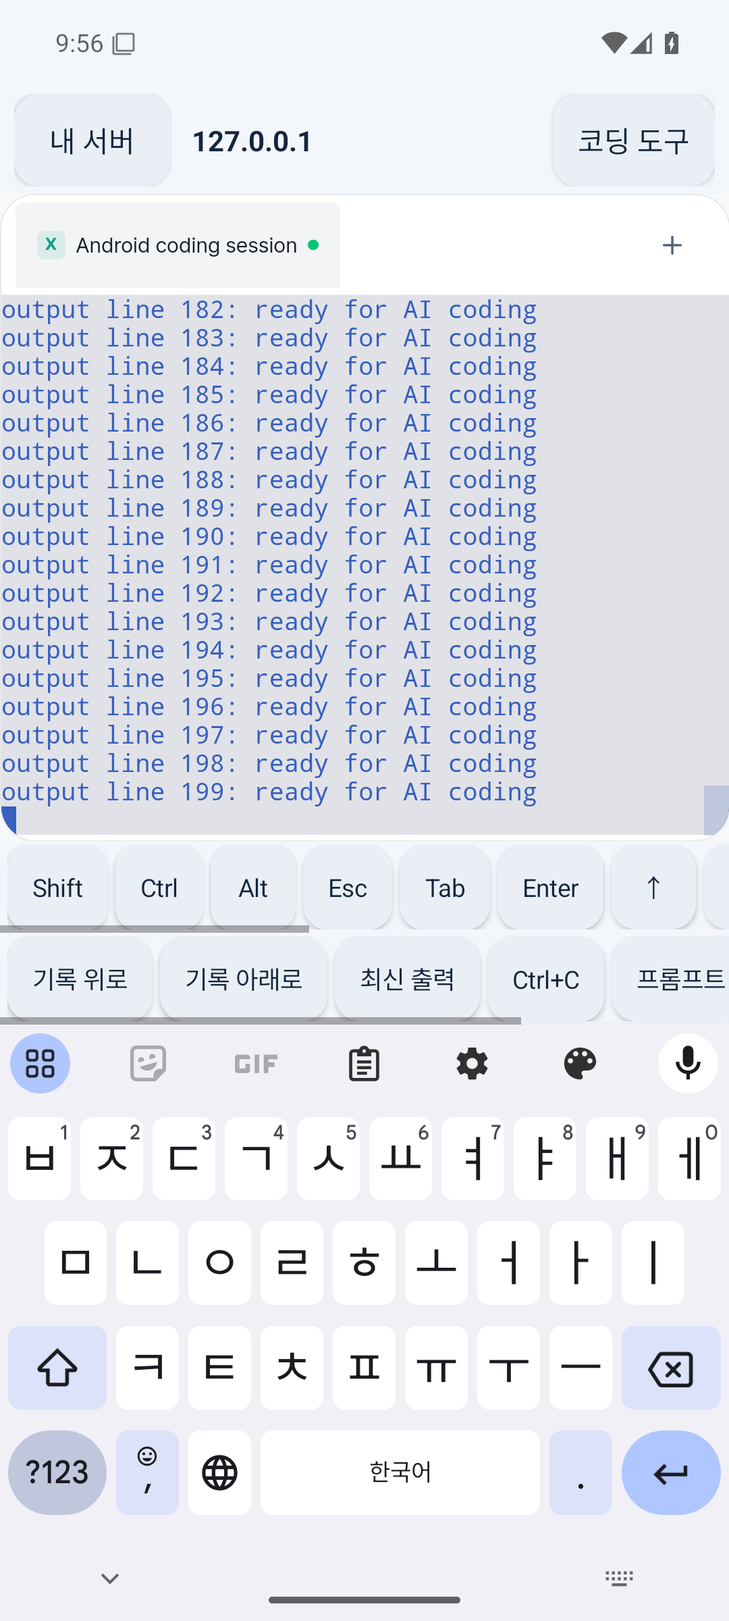
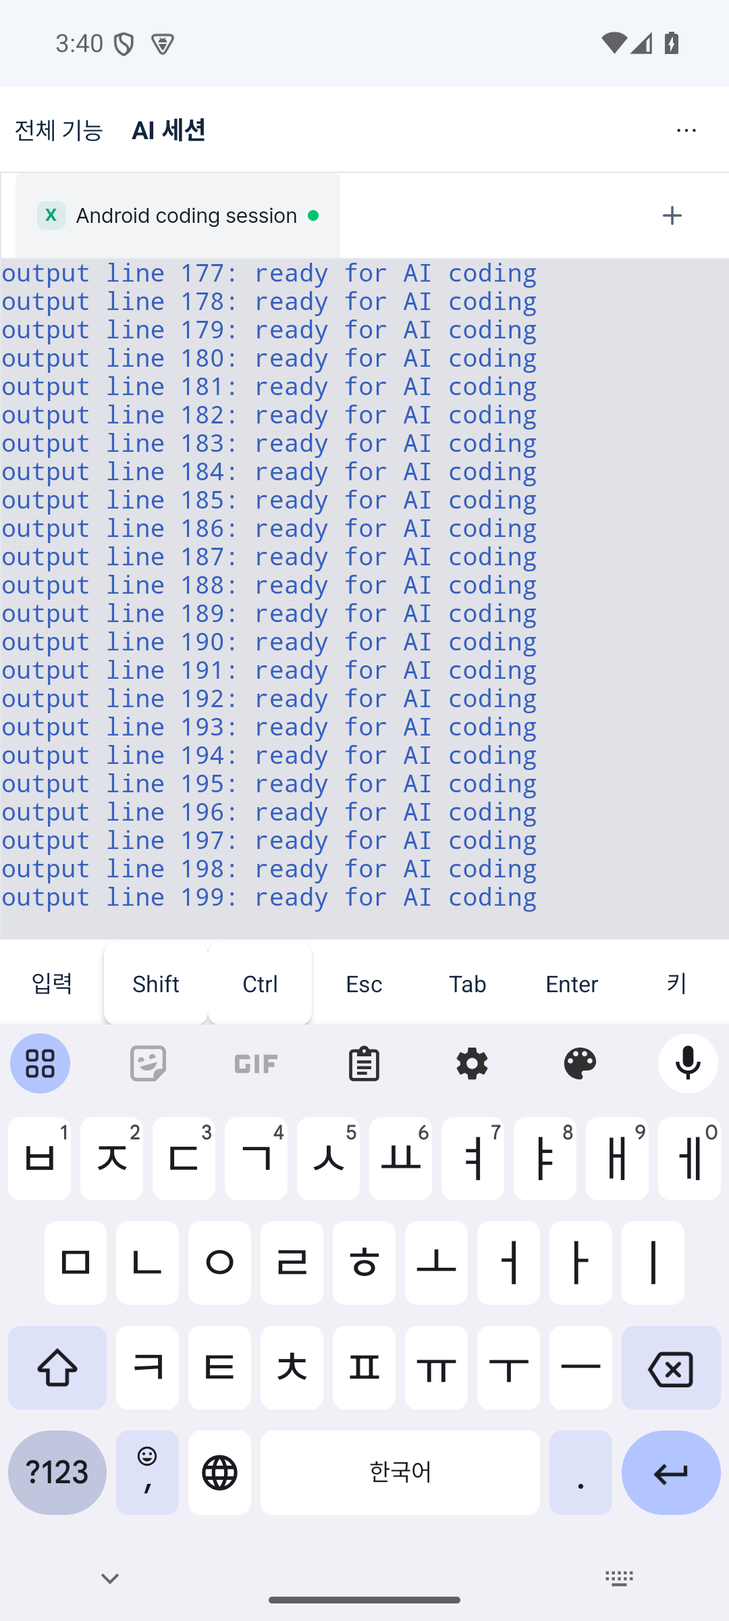
feat(android): expose full navigation and compact coding workspace

diff --git a/android/app/src/main/assets/panel.js b/android/app/src/main/assets/panel.js
@@ -6,7 +6,7 @@
   style.textContent = `
     html[data-sfpanel-android] { --muted-foreground:#526278; --primary:#1264cc; }
     html.dark[data-sfpanel-android] { --muted-foreground:#b0bdcb; --primary:#75b5ff; --primary-foreground:#101923; }
-    [data-sfpanel-android] :is(button,[role=button],[role=tab],input:not([type=checkbox]):not([type=radio]),select) { min-height:48px; }
+    [data-sfpanel-android] :is(button,[role=button],[role=tab],[role=menuitem],[role=menuitemcheckbox],[role=menuitemradio],[role=option],input:not([type=checkbox]):not([type=radio]),select) { min-height:48px; }
     [data-sfpanel-android] :is(button,[role=button],[role=tab]) { min-width:48px; }
     [data-sfpanel-android] :is(input,textarea,select) { font-size:max(16px,1em); }
     [data-sfpanel-android] .xterm-helper-textarea { min-height:0 !important; font-size:inherit; }
@@ -14,9 +14,10 @@
     [data-sfpanel-android] nav span { font-size:12px; }
     /* Prevent keyboard focus from scrolling the session frame itself. */
     [data-sfpanel-android] [data-ai-workspace] > .overflow-hidden { overflow:clip; }
-    @media(max-height:520px) {
-      [data-sfpanel-android] [data-ai-workspace] > :first-child { display:none; }
-    }
+    [data-sfpanel-android] [data-ai-workspace] { gap:0 !important; }
+    [data-sfpanel-android]:not([data-ai-tools-open]) [data-ai-workspace] > :first-child { display:none; }
+    [data-sfpanel-android] [data-ai-workspace] > .rounded-2xl { border-radius:0; }
+    [data-sfpanel-android] [data-ai-workspace] [role=tablist] { padding-block:0; }
     @media(prefers-reduced-motion:reduce) { *,*::before,*::after { animation-duration:.01ms !important; transition-duration:.01ms !important; scroll-behavior:auto !important; } }
   `;
   document.head.append(style);

diff --git a/e2e/tests/mobile-terminal.spec.ts b/e2e/tests/mobile-terminal.spec.ts
@@ -1,4 +1,5 @@
 import { test, expect } from '@playwright/test'
+import { resolve } from 'node:path'
 
 // These tests never contact a host shell: REST and WebSocket are both fixtures.
 // Run against a frontend dev server or a built panel; no admin seed is needed.
@@ -78,6 +79,17 @@ for (const path of ['/terminal', '/ai']) {
     for (const button of await bar.getByRole('button').all()) {
       const box = await button.boundingBox()
       expect(box?.height).toBeGreaterThanOrEqual(48)
+    }
+    if (path === '/ai') {
+      await page.addScriptTag({ path: resolve(__dirname, '../../android/app/src/main/assets/panel.js') })
+      const overview = page.locator('[data-ai-workspace] > :first-child')
+      await expect(overview).toBeHidden()
+      await expect(bar).toBeHidden()
+      await expect.poll(async () => (await terminal.boundingBox())?.height ?? 0).toBeGreaterThan(450)
+      // Compact mode must retain account/tool controls on demand.
+      await page.evaluate(() => document.documentElement.setAttribute('data-ai-tools-open', ''))
+      await expect(overview).toBeVisible()
+      await expect(page.getByRole('combobox', { name: 'Run as' })).toBeVisible()
     }
   })
 }

diff --git a/android/app/src/main/java/com/sfpanel/android/MainActivity.java b/android/app/src/main/java/com/sfpanel/android/MainActivity.java
@@ -64,7 +64,7 @@ public final class MainActivity extends Activity {
     private ServerStore.Server current;
     private boolean connecting, pageFailed;
     private int generation;
-    private String startPath = "/ai";
+    private String startPath = "/dashboard";
     private boolean awaitingLogin;
     private ValueCallback<Uri[]> fileCallback;
     private PanelDownloads downloads;
@@ -73,7 +73,8 @@ public final class MainActivity extends Activity {
     CertificateTrust certificateTrust() { return certificates; }
     private LinearLayout terminalBar;
     private boolean shift, ctrl, alt;
-    private Button shiftButton, ctrlButton, altButton;
+    private Button shiftButton, ctrlButton, altButton, moreKeysButton;
+    private TextView panelTitle;
 
     @Override public void onCreate(Bundle state) {
         super.onCreate(state);
@@ -142,10 +143,8 @@ public final class MainActivity extends Activity {
         ScrollView scroll = new ScrollView(this); scroll.setFillViewport(true);
         LinearLayout body = column(); body.setPadding(dp(24), dp(20), dp(24), dp(32));
         scroll.addView(body); root.addView(scroll, new LinearLayout.LayoutParams(-1, -1));
-        body.addView(text("SFPanel", 21, TEAL, true));
-        body.addView(text(getString(R.string.home_eyebrow), 12, MUTED, true));
-        body.addView(heading(R.string.home_title, 32));
-        body.addView(text(getString(R.string.home_description), 16, MUTED, false));
+        body.addView(text("SFPanel", 24, INK, true));
+        body.addView(text(getString(R.string.home_description), 14, MUTED, false));
 
         LinearLayout card = column(); card.setPadding(dp(20), dp(16), dp(20), dp(22)); card.setBackground(surface(Color.WHITE, 24));
         LinearLayout.LayoutParams cardParams = new LinearLayout.LayoutParams(-1, -2); cardParams.topMargin = dp(24);
@@ -162,12 +161,13 @@ public final class MainActivity extends Activity {
         });
         card.addView(connectButton);
         status = text("", 15, MUTED, false); status.setAccessibilityLiveRegion(View.ACCESSIBILITY_LIVE_REGION_POLITE); card.addView(status);
-        body.addView(heading(R.string.saved_servers, 22));
-        body.addView(text(getString(R.string.saved_help), 14, MUTED, false));
-        if (store.list().isEmpty()) body.addView(text(getString(R.string.empty_servers), 16, MUTED, false));
+        LinearLayout savedSection = column(); body.addView(savedSection, 2);
+        savedSection.addView(heading(R.string.saved_servers, 22));
+        savedSection.addView(text(getString(R.string.saved_help), 14, MUTED, false));
+        if (store.list().isEmpty()) savedSection.addView(text(getString(R.string.empty_servers), 16, MUTED, false));
         for (ServerStore.Server server : store.list()) {
             LinearLayout saved = column(); saved.setPadding(dp(16), dp(12), dp(16), dp(16)); saved.setBackground(surface(Color.WHITE, 18));
-            LinearLayout.LayoutParams sp = new LinearLayout.LayoutParams(-1, -2); sp.topMargin = dp(12); body.addView(saved, sp);
+            LinearLayout.LayoutParams sp = new LinearLayout.LayoutParams(-1, -2); sp.topMargin = dp(12); savedSection.addView(saved, sp);
             Button open = button(server.name() + "\n" + server.address(), false, () -> requestConnect(server));
             open.setContentDescription(getString(R.string.open_server, server.name()) + ", " + server.address()); saved.addView(open);
             Button remove = button(getString(R.string.remove), false, () -> new AlertDialog.Builder(this)
@@ -178,6 +178,12 @@ public final class MainActivity extends Activity {
                         .setNegativeButton(R.string.cancel, null).setPositiveButton(R.string.remove, (d, w) -> { certificates.remove(server.address()); showHome(); }).show()));
             remove.setContentDescription(getString(R.string.remove_server, server.name())); saved.addView(remove);
         }
+        if (!store.list().isEmpty()) {
+            card.setVisibility(View.GONE);
+            Button addServer = compactButton(getString(R.string.add_server), () -> card.setVisibility(card.getVisibility() == View.VISIBLE ? View.GONE : View.VISIBLE));
+            body.addView(addServer, body.indexOfChild(card));
+        }
+        card.removeView(status); body.addView(status, body.indexOfChild(card));
         body.addView(button(getString(R.string.options), false, this::showOptions));
         body.addView(text(getString(R.string.privacy_help), 14, MUTED, false));
     }
@@ -240,13 +246,12 @@ public final class MainActivity extends Activity {
     @SuppressLint("SetJavaScriptEnabled")
     private void openPanel(ServerStore.Server server) {
         closeWeb(); current = server; setRoot();
-        LinearLayout toolbar = new LinearLayout(this); toolbar.setGravity(Gravity.CENTER_VERTICAL); toolbar.setPadding(dp(8), dp(4), dp(8), dp(4));
-        Button home = button(getString(R.string.servers), false, this::confirmHome);
-        toolbar.addView(home, new LinearLayout.LayoutParams(-2, -2));
-        TextView title = text(server.name(), 16, INK, true); title.setMaxLines(1); title.setEllipsize(android.text.TextUtils.TruncateAt.END);
-        title.setPadding(dp(12), 0, dp(8), 0); toolbar.addView(title, new LinearLayout.LayoutParams(0, -2, 1));
-        toolbar.addView(button(getString(R.string.coding_tools), false, this::showTools), new LinearLayout.LayoutParams(-2, -2));
-        root.addView(toolbar);
+        LinearLayout toolbar = new LinearLayout(this); toolbar.setGravity(Gravity.CENTER_VERTICAL); toolbar.setBackgroundColor(Color.WHITE);
+        toolbar.addView(compactButton(getString(R.string.all_features), this::showNavigation), new LinearLayout.LayoutParams(-2, dp(48)));
+        panelTitle = text(server.name(), 14, INK, true); panelTitle.setMaxLines(1); panelTitle.setEllipsize(android.text.TextUtils.TruncateAt.END);
+        panelTitle.setPadding(dp(8), 0, dp(8), 0); toolbar.addView(panelTitle, new LinearLayout.LayoutParams(0, dp(48), 1)); panelTitle.setGravity(Gravity.CENTER_VERTICAL);
+        Button tools = compactButton("⋯", this::showTools); tools.setContentDescription(getString(R.string.page_tools));
+        toolbar.addView(tools, new LinearLayout.LayoutParams(dp(48), dp(48))); root.addView(toolbar);
         progress = new ProgressBar(this, null, android.R.attr.progressBarStyleHorizontal); progress.setMax(100); root.addView(progress, new LinearLayout.LayoutParams(-1, dp(3)));
         status = text(getString(R.string.page_loading), 14, MUTED, false); status.setPadding(dp(16), dp(4), dp(16), dp(4));
         status.setAccessibilityLiveRegion(View.ACCESSIBILITY_LIVE_REGION_POLITE); root.addView(status);
@@ -324,52 +329,99 @@ public final class MainActivity extends Activity {
         web.loadUrl(server.address() + startPath);
     }
 
-    private LinearLayout keyRow() {
-        android.widget.HorizontalScrollView scroll = new android.widget.HorizontalScrollView(this);
-        scroll.setHorizontalScrollBarEnabled(true);
-        scroll.setScrollbarFadingEnabled(false);
-        LinearLayout row = new LinearLayout(this); row.setPadding(dp(4), dp(2), dp(4), dp(2));
-        scroll.addView(row); terminalBar.addView(scroll); return row;
-    }
-    private Button key(LinearLayout row, String label, Runnable action) {
-        Button b = button(label, false, action); b.setTextSize(14 * readingScale()); b.setMinWidth(dp(48)); b.setMinimumWidth(dp(48));
-        b.setMinHeight(dp(48)); b.setMinimumHeight(dp(48));
-        LinearLayout.LayoutParams p = new LinearLayout.LayoutParams(-2, -2); p.setMarginEnd(dp(4));
-        row.addView(b, p); return b;
+    private Button compactButton(String label, Runnable action) {
+        Button b = button(label, false, action); b.setTextSize(13 * readingScale());
+        b.setPadding(dp(8), 0, dp(8), 0); b.setMinHeight(dp(48)); b.setMinimumHeight(dp(48));
+        b.setMinWidth(dp(48)); b.setMinimumWidth(dp(48)); b.setBackgroundColor(Color.TRANSPARENT); b.setStateListAnimator(null); b.setElevation(0);
+        b.setLayoutParams(new LinearLayout.LayoutParams(-2, dp(48))); return b;
     }
     private void addTerminalBar() {
-        terminalBar = column(); terminalBar.setVisibility(View.GONE); root.addView(terminalBar);
-        LinearLayout row = keyRow();
-        shiftButton = key(row, "Shift", () -> { shift = !shift; updateModifiers(); });
-        ctrlButton = key(row, "Ctrl", () -> { ctrl = !ctrl; updateModifiers(); });
-        altButton = key(row, "Alt", () -> { alt = !alt; updateModifiers(); });
-        String[][] keys = {{"Esc", "\u001b"}, {"Tab", "\t"}, {"Enter", "\r"}, {"↑", "\u001b[A"}, {"↓", "\u001b[B"},
-                {"←", "\u001b[D"}, {"→", "\u001b[C"}, {"PgUp", "\u001b[5~"}, {"PgDn", "\u001b[6~"}, {"Home", "\u001b[H"}, {"End", "\u001b[F"}, {"c", "c"}, {"d", "d"}, {"z", "z"}};
-        for (String[] k : keys) {
-            Button b = key(row, k[0], () -> sendKey(k[1]));
-            int label = switch (k[0]) { case "↑" -> R.string.key_up; case "↓" -> R.string.key_down; case "←" -> R.string.key_left; case "→" -> R.string.key_right; default -> 0; };
-            if (label != 0) b.setContentDescription(getString(label));
+        terminalBar = column(); terminalBar.setBackgroundColor(Color.WHITE); terminalBar.setVisibility(View.GONE); root.addView(terminalBar);
+        LinearLayout row = new LinearLayout(this); terminalBar.addView(row);
+        row.addView(compactButton(getString(R.string.input_short), () -> compose("")));
+        shiftButton = compactButton("Shift", () -> { shift = !shift; updateModifiers(); }); row.addView(shiftButton);
+        ctrlButton = compactButton("Ctrl", () -> { ctrl = !ctrl; updateModifiers(); }); row.addView(ctrlButton);
+        row.addView(compactButton("Esc", () -> sendKey("\u001b")));
+        row.addView(compactButton("Tab", () -> sendKey("\t")));
+        row.addView(compactButton("Enter", () -> sendKey("\r")));
+        moreKeysButton = compactButton(getString(R.string.keys_short), this::showKeypad);
+        moreKeysButton.setContentDescription(getString(R.string.keys_more)); row.addView(moreKeysButton);
+        for (int i = 0; i < row.getChildCount(); i++) row.getChildAt(i).setLayoutParams(new LinearLayout.LayoutParams(0, dp(48), 1));
+    }
+    private void showKeypad() {
+        LinearLayout body = column(); body.setPadding(dp(12), dp(8), dp(12), dp(8));
+        AlertDialog dialog = new AlertDialog.Builder(this).setTitle(R.string.terminal_controls).setView(body).setNegativeButton(R.string.close, null).create();
+        String[][] labels = {{"Alt", "↑", "PgUp", "Home"}, {"←", "↓", "→", "End"}, {"Ctrl+C", "Ctrl+D", "Ctrl+Z", "PgDn"}};
+        String[][] codes = {{"", "\u001b[A", "\u001b[5~", "\u001b[H"}, {"\u001b[D", "\u001b[B", "\u001b[C", "\u001b[F"}, {"\u0003", "\u0004", "\u001a", "\u001b[6~"}};
+        for (int i = 0; i < labels.length; i++) {
+            LinearLayout row = new LinearLayout(this); body.addView(row);
+            for (int j = 0; j < labels[i].length; j++) {
+                String label = labels[i][j], code = codes[i][j];
+                Button key = compactButton(label, () -> { if (label.equals("Alt")) { alt = !alt; updateModifiers(); dialog.dismiss(); } else { if (label.startsWith("Ctrl+")) { shift = false; ctrl = false; alt = false; } sendKey(code); } });
+                int description = switch (label) { case "↑" -> R.string.key_up; case "↓" -> R.string.key_down; case "←" -> R.string.key_left; case "→" -> R.string.key_right; default -> 0; };
+                if (description != 0) key.setContentDescription(getString(description));
+                row.addView(key, new LinearLayout.LayoutParams(0, dp(48), 1));
+            }
         }
-        LinearLayout history = keyRow();
-        key(history, getString(R.string.scroll_up), () -> scroll(-1));
-        key(history, getString(R.string.scroll_down), () -> scroll(1));
-        key(history, getString(R.string.scroll_bottom), () -> scroll(0));
-        key(history, "Ctrl+C", () -> { shift = false; ctrl = false; alt = false; sendKey("\u0003"); });
-        key(history, getString(R.string.compose_prompt), () -> compose(""));
-        key(history, getString(R.string.read_output), this::readOutput);
+        LinearLayout history = new LinearLayout(this); body.addView(history);
+        history.addView(compactButton(getString(R.string.scroll_up), () -> scroll(-1)), new LinearLayout.LayoutParams(0, dp(48), 1));
+        history.addView(compactButton(getString(R.string.scroll_down), () -> scroll(1)), new LinearLayout.LayoutParams(0, dp(48), 1));
+        history.addView(compactButton(getString(R.string.scroll_bottom), () -> scroll(0)), new LinearLayout.LayoutParams(0, dp(48), 1));
+        body.addView(compactButton(getString(R.string.read_output), () -> { dialog.dismiss(); readOutput(); }));
+        body.addView(compactButton(getString(R.string.search_output), () -> { dialog.dismiss(); searchOutput(); }));
+        dialog.show();
+    }
+    private void showNavigation() {
+        String[] paths = {"/dashboard", "/ai", "/terminal", "/files", "/docker", "/appstore", "/services", "/processes", "/cron", "/logs", "/network", "/firewall", "/disk", "/packages", "/cluster", "/settings"};
+        String[] names = getResources().getStringArray(R.array.feature_names);
+        LinearLayout body = column(); body.setPadding(dp(16), dp(8), dp(16), dp(16));
+        TextView server = text(current.name() + " · " + current.address(), 13, MUTED, false); body.addView(server);
+        EditText search = new EditText(this); search.setSingleLine(true); search.setHint(R.string.find_feature); search.setContentDescription(getString(R.string.find_feature)); search.setMinHeight(dp(48)); body.addView(search);
+        ScrollView scroll = new ScrollView(this); LinearLayout entries = column(); scroll.addView(entries); body.addView(scroll, new LinearLayout.LayoutParams(-1, 0, 1));
+        AlertDialog dialog = new AlertDialog.Builder(this).setTitle(R.string.all_features).setView(body).setNegativeButton(R.string.close, null).create();
+        java.util.List<Button> buttons = new java.util.ArrayList<>();
+        LinearLayout row = null;
+        for (int i = 0; i < paths.length; i++) {
+            if (i % 2 == 0) { row = new LinearLayout(this); entries.addView(row); }
+            String path = paths[i]; Button item = compactButton(names[i], () -> { dialog.dismiss(); navigate(path); });
+            item.setGravity(Gravity.START | Gravity.CENTER_VERTICAL); item.setMaxLines(2);
+            String pagePath = web == null || web.getUrl() == null ? null : Uri.parse(web.getUrl()).getPath();
+            boolean selected = path.equals(pagePath) || (pagePath != null && pagePath.startsWith(path + "/"));
+            item.setBackground(surface(selected ? TEAL : BG, 10)); item.setTextColor(selected ? Color.WHITE : INK);
+            LinearLayout.LayoutParams cell = new LinearLayout.LayoutParams(0, dp(52), 1); cell.setMargins(dp(2), dp(2), dp(2), dp(2));
+            row.addView(item, cell); buttons.add(item);
+        }
+        search.addTextChangedListener(new android.text.TextWatcher() {
+            public void beforeTextChanged(CharSequence s, int start, int count, int after) { }
+            public void onTextChanged(CharSequence s, int start, int before, int count) {
+                String query = s.toString().toLowerCase(java.util.Locale.ROOT);
+                for (int i = 0; i < buttons.size(); i++) buttons.get(i).setVisibility((names[i] + " " + paths[i]).toLowerCase(java.util.Locale.ROOT).contains(query) ? View.VISIBLE : View.GONE);
+            }
+            public void afterTextChanged(android.text.Editable s) { }
+        });
+        body.addView(compactButton(getString(R.string.servers), () -> { dialog.dismiss(); confirmHome(); }));
+        body.addView(compactButton(getString(R.string.options), () -> { dialog.dismiss(); showOptions(); }));
+        if (web != null) ((InputMethodManager) getSystemService(INPUT_METHOD_SERVICE)).hideSoftInputFromWindow(web.getWindowToken(), 0);
+        dialog.setOnShowListener(d -> {
+            dialog.getWindow().setLayout(-1, (int) (getResources().getDisplayMetrics().heightPixels * .9));
+            dialog.getWindow().setSoftInputMode(android.view.WindowManager.LayoutParams.SOFT_INPUT_STATE_ALWAYS_HIDDEN | android.view.WindowManager.LayoutParams.SOFT_INPUT_ADJUST_RESIZE);
+        });
+        dialog.show();
     }
     private void updateTerminalBar(String url) {
         if (terminalBar == null) return;
         String path = Uri.parse(url).getPath();
+        if (panelTitle != null && current != null) panelTitle.setText(current.name() + ("/ai".equals(path) ? " · AI" : "/terminal".equals(path) ? " · " + getString(R.string.terminal) : ""));
         terminalBar.setVisibility("/ai".equals(path) || "/terminal".equals(path) ? View.VISIBLE : View.GONE);
         shift = false; ctrl = false; alt = false; updateModifiers();
     }
     private void updateModifiers() {
+        if (moreKeysButton != null) moreKeysButton.setText(alt ? "Alt" : getString(R.string.keys_short));
         Button[] buttons = {shiftButton, ctrlButton, altButton}; boolean[] values = {shift, ctrl, alt};
         for (int i = 0; i < buttons.length; i++) {
             if (buttons[i] == null) continue;
             buttons[i].setSelected(values[i]); buttons[i].setTextColor(values[i] ? Color.WHITE : INK);
-            buttons[i].setBackground(surface(values[i] ? TEAL : 0xffe9eff5, 12));
+            buttons[i].setBackground(surface(values[i] ? TEAL : Color.WHITE, 8));
             if (android.os.Build.VERSION.SDK_INT >= 30) buttons[i].setStateDescription(getString(values[i] ? R.string.modifier_on : R.string.modifier_off));
         }
     }
@@ -416,28 +468,34 @@ public final class MainActivity extends Activity {
     private static final String ACTIVE = "const e=document.querySelector('[data-terminal-session=active]');const t=e?.__termRef?.current;const w=e?.__wsRef?.current;";
 
     private void showTools() {
-        int[] labels = {R.string.ai_sessions, R.string.terminal, R.string.dashboard, R.string.compose_prompt,
-                R.string.paste_prompt, R.string.read_output, R.string.search_output, R.string.show_keyboard, R.string.options, R.string.reload};
-        String[] names = java.util.Arrays.stream(labels).mapToObj(this::getString).toArray(String[]::new);
+        String path = web == null || web.getUrl() == null ? "" : Uri.parse(web.getUrl()).getPath();
+        if (!"/ai".equals(path) && !"/terminal".equals(path)) {
+            new AlertDialog.Builder(this).setTitle(R.string.page_tools)
+                    .setItems(new String[]{getString(R.string.options), getString(R.string.reload)}, (d, which) -> { if (which == 0) showOptions(); else if (web != null) web.reload(); }).show();
+            return;
+        }
+        boolean ai = "/ai".equals(path);
+        int[] labels = {R.string.ai_setup, R.string.session_actions, R.string.show_keyboard, R.string.paste_prompt,
+                R.string.read_output, R.string.search_output, R.string.terminal_controls, R.string.options, R.string.reload};
+        String[] names = java.util.Arrays.stream(labels).skip(ai ? 0 : 2).mapToObj(this::getString).toArray(String[]::new);
         new AlertDialog.Builder(this).setTitle(R.string.coding_tools).setItems(names, (d, which) -> {
-            switch (which) {
-                case 0 -> navigate("/ai");
-                case 1 -> navigate("/terminal");
-                case 2 -> navigate("/dashboard");
-                case 3 -> compose("");
-                case 4 -> {
+            switch (which + (ai ? 0 : 2)) {
+                case 0 -> evaluate("document.documentElement.toggleAttribute('data-ai-tools-open');window.dispatchEvent(new Event('resize'));return true;", null);
+                case 1 -> evaluate("const tab=document.querySelector('[role=tab][aria-selected=true]');if(!tab)return false;const r=tab.getBoundingClientRect();tab.dispatchEvent(new MouseEvent('contextmenu',{bubbles:true,clientX:r.x+r.width/2,clientY:r.bottom}));return true;", result -> { if (!"true".equals(result)) toast(R.string.no_session); });
+                case 2 -> evaluate(ACTIVE + "if(!t)return false;t.focus();return true;", result -> {
+                    if (!"true".equals(result)) toast(R.string.no_session);
+                    else if (web != null) { web.requestFocus(); ((InputMethodManager) getSystemService(INPUT_METHOD_SERVICE)).showSoftInput(web, InputMethodManager.SHOW_IMPLICIT); }
+                });
+                case 3 -> {
                     ClipboardManager clipboard = (ClipboardManager) getSystemService(CLIPBOARD_SERVICE);
                     ClipData clip = clipboard.getPrimaryClip();
                     compose(clip != null && clip.getItemCount() > 0 ? clip.getItemAt(0).coerceToText(this).toString() : "");
                 }
-                case 5 -> readOutput();
-                case 6 -> searchOutput();
-                case 7 -> evaluate(ACTIVE + "if(!t)return false;t.focus();return true;", result -> {
-                    if (!"true".equals(result)) toast(R.string.no_session);
-                    else if (web != null) { web.requestFocus(); ((InputMethodManager) getSystemService(INPUT_METHOD_SERVICE)).showSoftInput(web, InputMethodManager.SHOW_IMPLICIT); }
-                });
-                case 8 -> showOptions();
-                case 9 -> { if (web != null) web.reload(); }
+                case 4 -> readOutput();
+                case 5 -> searchOutput();
+                case 6 -> showKeypad();
+                case 7 -> showOptions();
+                case 8 -> { if (web != null) web.reload(); }
                 default -> { }
             }
         }).show();
@@ -546,7 +604,7 @@ public final class MainActivity extends Activity {
         if (web == null) { out.putString("draftName", nameInput.getText().toString()); out.putString("draftAddress", addressInput.getText().toString()); }
     }
     @Override protected void onResume() {
-        super.onResume(); if (updates != null) updates.resumeInstall(); startPath = prefs.getString("startPath", "/ai");
+        super.onResume(); if (updates != null) updates.resumeInstall(); startPath = prefs.getString("startPath", "/dashboard");
         if (web != null) { web.onResume(); evaluate("window.dispatchEvent(new Event('online'));return true;", null); }
     }
     @Override protected void onPause() { if (web != null) web.onPause(); CookieManager.getInstance().flush(); super.onPause(); }

diff --git a/android/README.md b/android/README.md
@@ -1,26 +1,27 @@
 # SFPanel Android
 
-SFPanel 서버에 연결하는 Android 앱입니다. 서버 연결·코딩 도구는 Android 기본 UI로 제공하고, 관리 기능은 서버의 반응형 웹 화면을 사용합니다. 서버별 이름과 주소를 저장하며, AI 세션을 기본 시작 화면으로 사용합니다.
+SFPanel 서버에 연결하는 Android 앱입니다. 서버 연결·코딩 도구는 Android 기본 UI로 제공하고, 관리 기능은 서버의 반응형 웹 화면을 사용합니다. 서버별 이름과 주소를 저장하며, 대시보드를 기본 시작 화면으로 사용하며, 전체 기능 메뉴에서 관리 화면과 코딩 화면으로 이동합니다. 직접 선택한 시작 화면은 유지합니다.
 
 ## 주요 기능
 
-- **터미널 / AI 우선:** 상단 `코딩 도구`에서 AI·터미널·대시보드로 이동합니다.
-- **특수 키:** Shift·Ctrl·Alt를 조합해 화면 키에 적용합니다. Shift+Tab, Shift+Enter, 방향키, Page Up/Down, Home/End, Ctrl+C를 지원합니다. 조합 상태는 다음 화면 키를 누르면 해제됩니다. 휴대폰 키보드의 문자 대소문자는 키보드 자체 Shift로 선택합니다.
-- **출력 탐색:** `기록 위로 / 아래로`는 xterm 출력 기록을 이동하며 프로그램에 키를 보내지 않습니다. `PgUp / PgDn`은 실행 중인 프로그램으로 전달됩니다. `최신 출력`으로 돌아갈 수 있습니다. 전체 화면 프로그램의 자체 기록은 해당 프로그램의 PgUp/방향키를 사용하세요.
+- **전체 관리 기능:** 상단 `전체 기능`에서 대시보드, 파일, Docker·Compose, 앱 스토어, 서비스, 프로세스, 예약 작업, 로그, 네트워크·VPN, 방화벽, 디스크, 패키지, 클러스터, 서버 설정, AI, 터미널을 검색하고 바로 엽니다. 기존 웹 화면의 상세 탭·작업·모바일 하단 탐색도 유지합니다.
+- **터미널 / AI 작업 공간:** 상단 탐색 48dp와 하단 입력 키 48dp만 고정합니다. AI 소개·도구 상태는 접어 출력 공간을 확보하고, `⋯ → AI 도구·계정 설정 열기/닫기`로 펼칩니다. 세션 탭과 새 세션 버튼은 계속 표시하며, `⋯ → 세션 관리`로 세션 작업 메뉴를 엽니다.
+- **특수 키:** 한 줄에 입력·Shift·Ctrl·Esc·Tab·Enter·키를 표시합니다. `키`에서 방향키·Alt·페이지 이동·Ctrl 조합을 엽니다. Shift·Ctrl·Alt를 조합해 화면 키에 적용합니다. Shift+Tab, Shift+Enter, 방향키, Page Up/Down, Home/End, Ctrl+C를 지원합니다. 조합 상태는 다음 화면 키를 누르면 해제됩니다. 휴대폰 키보드의 문자 대소문자는 키보드 자체 Shift로 선택합니다.
+- **출력 탐색:** `키` 메뉴의 `기록 위로 / 아래로`는 xterm 출력 기록을 이동하며 프로그램에 키를 보내지 않습니다. `PgUp / PgDn`은 실행 중인 프로그램으로 전달됩니다. `최신 출력`으로 돌아갈 수 있습니다. 전체 화면 프로그램의 자체 기록은 해당 프로그램의 PgUp/방향키를 사용하세요.
 - **프롬프트 작성:** Android 여러 줄 편집창으로 한글·음성 입력·선택·붙여넣기를 사용하고, xterm의 `paste()`로 삽입합니다. Enter를 덧붙이지 않습니다. 붙여넣기 보호를 지원하지 않는 셸에서는 포함된 줄바꿈이 실행될 수 있으므로 입력 내용을 확인하세요.
 - **출력 읽기 / 검색:** 최근 500줄을 선택 가능한 기본 텍스트 화면에서 읽고 복사합니다. 검색은 활성 xterm 버퍼의 이전/다음 일치 항목으로 이동합니다.
 - **기존 관리 기능:** 로그인·TOTP·노드 선택·Docker·Compose·파일·네트워크 등은 서버의 UI와 API를 사용합니다. 별도 Android CORS 설정은 필요하지 않습니다.
 - **파일:** 시스템 파일 선택기로 업로드하고 저장 위치 선택기로 다운로드합니다. HTTP 다운로드는 스트리밍하고, 브라우저 Blob 내보내기는 192 KiB씩 나누어 저장합니다. 원본 Blob을 생성하는 서버 웹 화면의 메모리 사용량은 기존과 같습니다.
 - **접근성:** 48dp 이상 기본 터치 영역, 텍스트가 있는 조작 버튼, TalkBack 레이블·상태 안내·기본 텍스트 읽기, 시스템 글자 크기 + 100/120/140% 읽기 배율, 키보드·시스템 바 여백 처리를 제공합니다. 한국어와 영어를 지원합니다.
 
-화면 예시: [서버 연결](docs/home.png) · [키보드와 터미널](docs/terminal-keyboard.png). [검증 기록](TESTING.md).
+화면 예시: [전체 기능](docs/all-features.png) · [키보드와 터미널](docs/terminal-keyboard.png). [검증 기록](TESTING.md).
 
 ## 연결
 
 1. Android 8.0(API 26) 이상 기기에 APK를 설치합니다.
 2. 서버 주소를 포트까지 입력합니다. 예: `https://panel.example.com:3628`.
 3. 공개 health API로 SFPanel 응답을 확인한 뒤 로그인합니다.
-4. 상단 `코딩 도구`에서 `AI 세션` 또는 `터미널`을 엽니다. 시작 화면은 `보기 설정`에서 바꿀 수 있습니다.
+4. 상단 `전체 기능`에서 원하는 관리 기능이나 `AI 코딩`·`터미널`을 엽니다. 시작 화면은 `보기 설정`에서 바꿀 수 있습니다.
 
 AI 기능은 SFPanel v0.73.0 이상의 `/ai` 화면과 tmux가 필요합니다. 앱은 `data-terminal-session`에 노출된 기존 xterm 참조를 사용합니다. 향후 서버가 이 계약을 바꾸면 앱 코딩 도구도 함께 갱신해야 합니다. 웹 터미널의 새 Shift/스크롤 키 바와 StrictMode 수정은 이 저장소의 웹 빌드를 서버에 반영해야 브라우저에서도 사용할 수 있습니다. Android 앱은 자체 화면 키를 제공하므로 v0.73.0 서버에서도 사용 가능합니다.
 
@@ -76,3 +77,7 @@ git push origin android-v0.1.1
 새 버전 안내에서 **다운로드 및 설치**를 누르면 현재 네트워크로 APK를 내려받습니다. SHA-256, 패키지 ID, 버전 증가, 현재 설치 앱과 동일한 서명을 검증한 뒤 Android 설치 화면을 엽니다. 최초에는 SFPanel의 **이 출처 허용** 설정이 필요하며, 최종 설치는 사용자가 승인합니다. 설치 중 앱은 종료되지만 연결 정보와 인증서 신뢰는 유지됩니다. 다운로드 도중 앱이 종료되면 다시 시도하세요. 업데이트 통신은 시스템 HTTPS 검증만 사용하며 서버별 사설 인증서 신뢰와 로그인 정보를 사용하지 않습니다.
 
 0.1.0에는 업데이트 기능이 없으므로 0.1.1은 GitHub에서 직접 받아 한 번 덮어 설치해야 합니다. 이후부터 앱 내 업데이트를 사용할 수 있습니다.
+
+## 0.1.2 UI 구조 변경
+
+저장한 서버를 연결 화면 위쪽에 배치하고 새 서버 입력은 필요할 때 펼칩니다. 서버에 연결한 뒤에는 어떤 페이지에서도 `전체 기능`을 열 수 있습니다. 코딩과 무관한 페이지의 `⋯`는 보기 설정·새로고침만 제공하며 코딩 메뉴를 섞지 않습니다. 관리 기능은 서버의 실제 웹 UI를 사용하므로 서버의 권한과 기능 설치 여부가 그대로 적용됩니다.

diff --git a/android/TESTING.md b/android/TESTING.md
@@ -39,3 +39,10 @@ Lint 경고는 동적 LAN 서버를 위한 HTTP 허용, 사용자가 설치한 C
 - 같은 주소의 인증서를 교체한 뒤 재연결하면 새 지문과 변경 안내를 표시하고 재승인 전 연결하지 않음을 확인했습니다.
 - 업데이트 검사는 GitHub의 Android 태그 인덱스와 해당 릴리즈만 읽습니다. 실제 저장소 전체 릴리즈 응답이 2 MiB를 초과하는 문제를 재현하고 전체 릴리즈 조회를 제거했습니다.
 - 같은 정식 키로 서명한 로컬 테스트 클라이언트(versionCode 1000)에서 공개된 0.1.0(versionCode 1001)을 탐지하고 다운로드했습니다. 체크섬·패키지·서명 검증 → 설치 출처 허용 → 시스템 업데이트 승인 → versionCode 1001 설치 완료까지 검증했습니다. 테스트 클라이언트는 배포하지 않았습니다.
+
+## 0.1.2 탐색·코딩 화면
+
+- Android API 35 에뮬레이터에서 16개 기능 메뉴와 파일 관리 이동 확인. 파일 관리의 새 파일·새 폴더·업로드 및 기존 하단 탐색이 유지됨을 확인했습니다. 실제 파일 변경 없이 fixture를 사용했습니다.
+- 같은 에뮬레이터에서 키보드 표시 시 터미널 높이 약 307→384 CSS px, 키보드가 없을 때 새 터미널 높이 696 CSS px 확인. 상단 안내·도구 상태를 접고 기본 키를 한 줄로 줄였습니다.
+- Playwright 2개 시나리오: 기존 Shift/스크롤 회귀 검사와 함께 Android 자산 스크립트 적용 후 AI 소개·중복 키 바 숨김, 높이 확보, 계정·도구 설정 다시 펼치기를 검사합니다.
+- 에뮬레이터에서 `세션 관리`로 기존 웹 메뉴(이름 변경·정보·종료)가 열림을 확인했고, 새 한 줄 키 바에서 Shift+Tab의 `1b 5b 5a` 전송도 확인했습니다.

diff --git a/README.md b/README.md
@@ -314,7 +314,7 @@ sudo systemctl start sfpanel
 
 Android 8.0 이상에서 서버 연결과 전체 웹 관리 화면을 사용할 수 있습니다. 터미널·AI 코딩을 위한 Shift/Ctrl/Alt 키, 출력 기록 이동, 여러 줄 프롬프트 편집, 출력 읽기·검색을 제공합니다. 큰 터치 영역, 시스템 글자 크기, TalkBack 레이블과 한국어/영어를 지원합니다.
 
-빌드·설치 방법과 검증 범위는 [Android 앱 안내](android/README.md)를 참고하세요. [GitHub 릴리즈](https://github.com/svrforum/SFPanel/releases/tag/android-v0.1.1)에서 서명된 APK를 받을 수 있습니다. `android-v*` 태그를 push하면 테스트와 서명 검증 후 자동 배포됩니다.
+빌드·설치 방법과 검증 범위는 [Android 앱 안내](android/README.md)를 참고하세요. [GitHub 릴리즈](https://github.com/svrforum/SFPanel/releases/tag/android-v0.1.2)에서 서명된 APK를 받을 수 있습니다. `android-v*` 태그를 push하면 테스트와 서명 검증 후 자동 배포됩니다.
 
 ## 데스크탑 앱 (Tauri)
 

diff --git a/README.en.md b/README.en.md
@@ -314,7 +314,7 @@ What the backup includes:
 
 The Android 8.0+ client combines native server connections and coding tools with the server's full web interface. It provides Shift/Ctrl/Alt keys, scrollback controls, multiline prompt composition, and output reading/search, with large touch targets, system font scaling, TalkBack labels, and Korean/English localization.
 
-See the [Android guide](android/README.md) for build instructions and validation scope. Download the signed APK from [GitHub Releases](https://github.com/svrforum/SFPanel/releases/tag/android-v0.1.1). Pushing an `android-v*` tag automatically tests, signs, verifies, and publishes the Android release.
+See the [Android guide](android/README.md) for build instructions and validation scope. Download the signed APK from [GitHub Releases](https://github.com/svrforum/SFPanel/releases/tag/android-v0.1.2). Pushing an `android-v*` tag automatically tests, signs, verifies, and publishes the Android release.
 
 ## Desktop app (Tauri)
 
